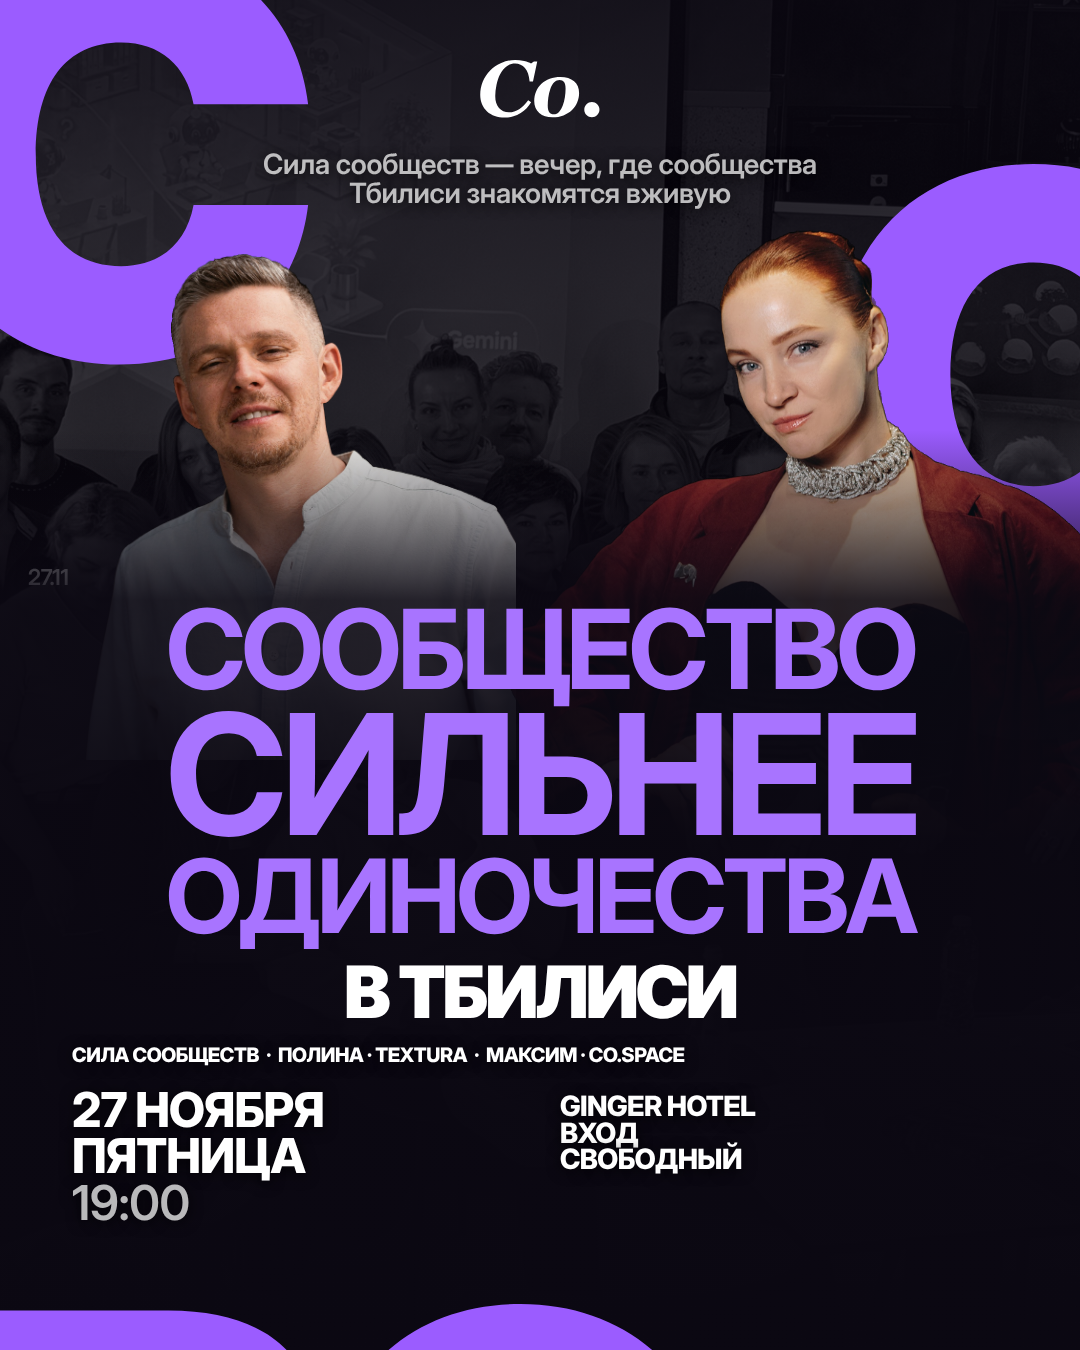
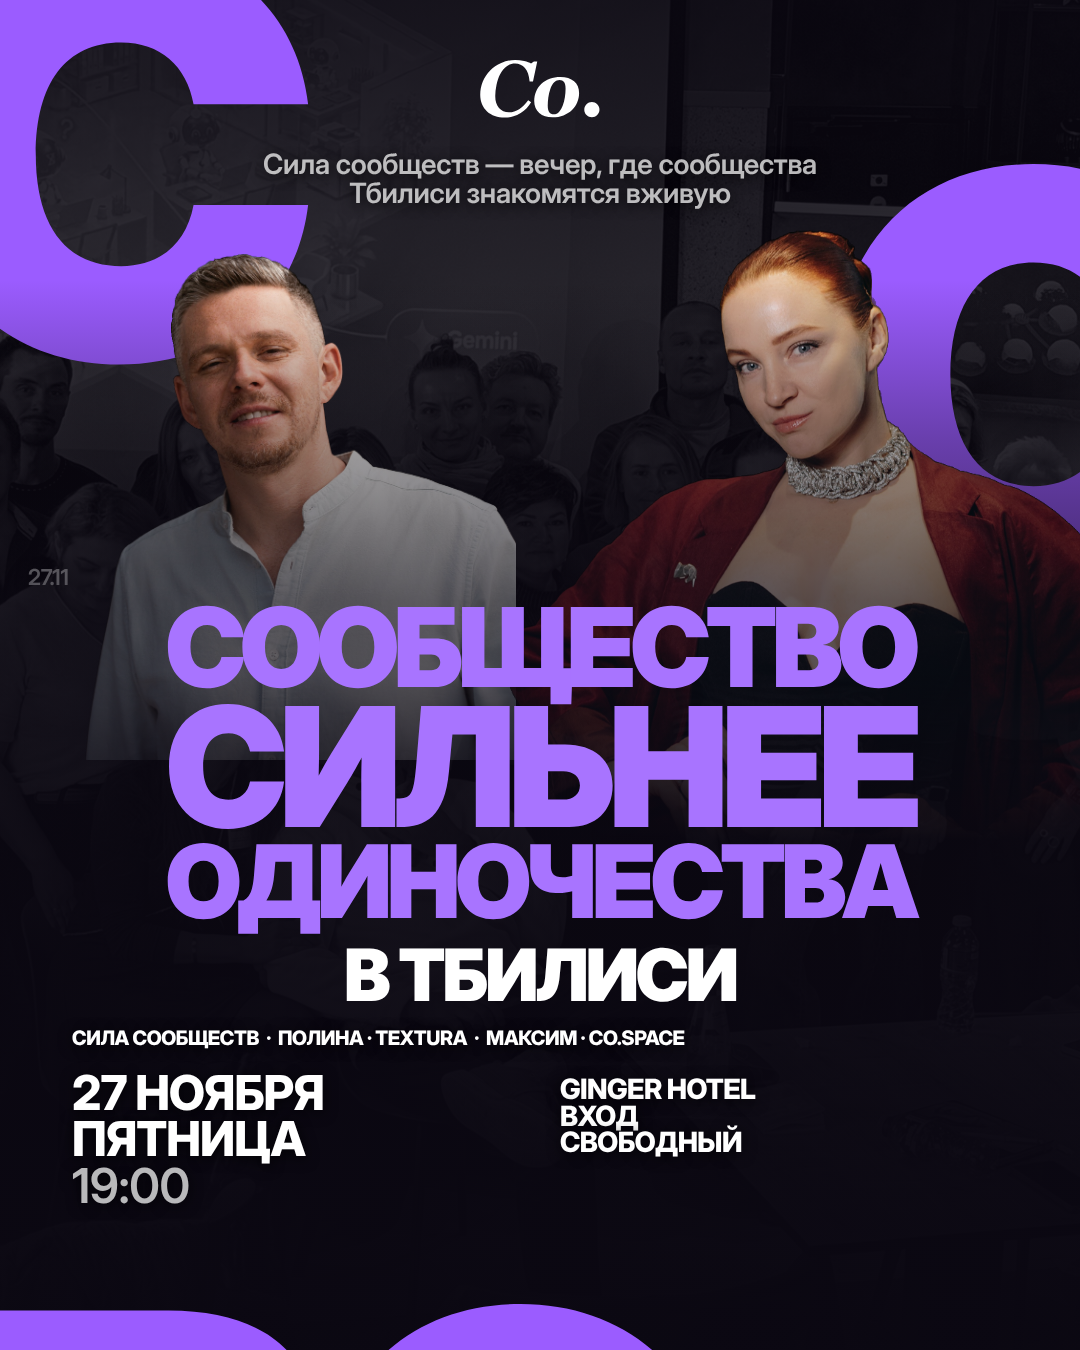
Фиолетовый: жирный заголовок, мягче затемнение

diff --git a/creatives/src/poster/edP-9x16.html b/creatives/src/poster/edP-9x16.html
@@ -14,11 +14,11 @@ body{background:#0B0812}
 .title{position:absolute;left:0;right:0;text-align:center;font-weight:900;color:#9B5CFF;letter-spacing:-.05em;line-height:.8}
 .logo svg{display:block}
 .flow{position:absolute;left:72px;right:72px}
-.fit{display:block;white-space:nowrap;font-weight:700;color:#A874FF;letter-spacing:-.04em;line-height:.9;text-align:center}
+.fit{display:block;white-space:nowrap;font-weight:900;color:#A874FF;letter-spacing:-.05em;line-height:.86;text-align:center}
 .dark{position:absolute;left:0;right:0;bottom:0;z-index:1}
 .flow{z-index:3}
 .logo svg path{fill:#fff}
-</style></head><body><div class="bg"></div><div class="sh"></div><div class="L" style="left:-110px;top:-60px;font-size:760px">С</div><div class="L" style="right:-170px;top:330px;font-size:760px">О</div><div class="person" style="left:71px;top:475px;height:546px;-webkit-mask-image:linear-gradient(180deg,#000 83.3%,transparent 118.1%);"><img src="max_cut.png"></div><div class="person" style="left:486px;top:445px;height:910px;-webkit-mask-image:linear-gradient(180deg,#000 53.2%,transparent 74.1%);"><img src="polina_cut.png"></div><div class="L" style="z-index:2;left:-40px;top:1760px;font-size:760px">ВО</div><div class="abs t" style="left:0;right:0;top:365px;text-align:center;font-size:32px">Сила сообществ — вечер, где сообщества<br>Тбилиси знакомятся вживую</div><div class="abs t" style="left:28px;top:866px;font-size:22px">27.11</div><div class="dark" style="top:730px;background:linear-gradient(180deg,rgba(11,8,18,0),rgba(11,8,18,.88) 170px,rgba(11,8,18,.96))"></div><div class="flow" style="top:900px">
+</style></head><body><div class="bg"></div><div class="sh"></div><div class="L" style="left:-110px;top:-60px;font-size:760px">С</div><div class="L" style="right:-170px;top:330px;font-size:760px">О</div><div class="person" style="left:71px;top:475px;height:546px;-webkit-mask-image:linear-gradient(180deg,#000 83.3%,transparent 118.1%);"><img src="max_cut.png"></div><div class="person" style="left:486px;top:445px;height:910px;-webkit-mask-image:linear-gradient(180deg,#000 53.2%,transparent 74.1%);"><img src="polina_cut.png"></div><div class="L" style="z-index:2;left:-40px;top:1760px;font-size:760px">ВО</div><div class="abs t" style="left:0;right:0;top:365px;text-align:center;font-size:32px">Сила сообществ — вечер, где сообщества<br>Тбилиси знакомятся вживую</div><div class="abs t" style="left:28px;top:866px;font-size:22px">27.11</div><div class="dark" style="top:580px;background:linear-gradient(180deg,rgba(11,8,18,0),rgba(11,8,18,.35) 160px,rgba(11,8,18,.62) 320px,rgba(11,8,18,.72) 70%,rgba(11,8,18,.85))"></div><div class="flow" style="top:900px">
 <span class="fit">СООБЩЕСТВО</span><span class="fit">СИЛЬНЕЕ</span><span class="fit">ОДИНОЧЕСТВА</span>
 <div style="text-align:center;font-weight:900;font-size:88px;letter-spacing:-.04em;line-height:1;color:#fff;margin-top:14px">В ТБИЛИСИ</div>
 <div class="tb" style="font-size:22px;margin-top:18px">СИЛА СООБЩЕСТВ &nbsp;·&nbsp; ПОЛИНА · TEXTURA &nbsp;·&nbsp; МАКСИМ · CO.SPACE</div>

diff --git a/creatives/src/poster/edP-4x5.html b/creatives/src/poster/edP-4x5.html
@@ -14,11 +14,11 @@ body{background:#0B0812}
 .title{position:absolute;left:0;right:0;text-align:center;font-weight:900;color:#9B5CFF;letter-spacing:-.05em;line-height:.8}
 .logo svg{display:block}
 .flow{position:absolute;left:72px;right:72px}
-.fit{display:block;white-space:nowrap;font-weight:700;color:#A874FF;letter-spacing:-.04em;line-height:.9;text-align:center}
+.fit{display:block;white-space:nowrap;font-weight:900;color:#A874FF;letter-spacing:-.05em;line-height:.86;text-align:center}
 .dark{position:absolute;left:0;right:0;bottom:0;z-index:1}
 .flow{z-index:3}
 .logo svg path{fill:#fff}
-</style></head><body><div class="bg"></div><div class="sh"></div><div class="L" style="left:-90px;top:-70px;font-size:560px">С</div><div class="L" style="right:-140px;top:150px;font-size:560px">О</div><div class="person" style="left:85px;top:254px;height:506px;-webkit-mask-image:linear-gradient(180deg,#000 82.2%,transparent 115.8%);"><img src="max_cut.png"></div><div class="person" style="left:508px;top:227px;height:844px;-webkit-mask-image:linear-gradient(180deg,#000 52.5%,transparent 72.7%);"><img src="polina_cut.png"></div><div class="L" style="z-index:2;left:-30px;top:1290px;font-size:560px">ВО</div><div class="abs t" style="left:0;right:0;top:150px;text-align:center;font-size:28px">Сила сообществ — вечер, где сообщества<br>Тбилиси знакомятся вживую</div><div class="abs t" style="left:28px;top:566px;font-size:22px">27.11</div><div class="dark" style="top:430px;background:linear-gradient(180deg,rgba(11,8,18,0),rgba(11,8,18,.88) 170px,rgba(11,8,18,.96))"></div><div class="flow" style="top:600px">
+</style></head><body><div class="bg"></div><div class="sh"></div><div class="L" style="left:-90px;top:-70px;font-size:560px">С</div><div class="L" style="right:-140px;top:150px;font-size:560px">О</div><div class="person" style="left:85px;top:254px;height:506px;-webkit-mask-image:linear-gradient(180deg,#000 82.2%,transparent 115.8%);"><img src="max_cut.png"></div><div class="person" style="left:508px;top:227px;height:844px;-webkit-mask-image:linear-gradient(180deg,#000 52.5%,transparent 72.7%);"><img src="polina_cut.png"></div><div class="L" style="z-index:2;left:-30px;top:1290px;font-size:560px">ВО</div><div class="abs t" style="left:0;right:0;top:150px;text-align:center;font-size:28px">Сила сообществ — вечер, где сообщества<br>Тбилиси знакомятся вживую</div><div class="abs t" style="left:28px;top:566px;font-size:22px">27.11</div><div class="dark" style="top:280px;background:linear-gradient(180deg,rgba(11,8,18,0),rgba(11,8,18,.35) 160px,rgba(11,8,18,.62) 320px,rgba(11,8,18,.72) 70%,rgba(11,8,18,.85))"></div><div class="flow" style="top:600px">
 <span class="fit">СООБЩЕСТВО</span><span class="fit">СИЛЬНЕЕ</span><span class="fit">ОДИНОЧЕСТВА</span>
 <div style="text-align:center;font-weight:900;font-size:72px;letter-spacing:-.04em;line-height:1;color:#fff;margin-top:14px">В ТБИЛИСИ</div>
 <div class="tb" style="font-size:20px;margin-top:18px">СИЛА СООБЩЕСТВ &nbsp;·&nbsp; ПОЛИНА · TEXTURA &nbsp;·&nbsp; МАКСИМ · CO.SPACE</div>

diff --git a/creatives/src/poster/build_editorial_purple.py b/creatives/src/poster/build_editorial_purple.py
@@ -37,7 +37,7 @@ body{background:#0B0812}
 .title{position:absolute;left:0;right:0;text-align:center;font-weight:900;color:#9B5CFF;letter-spacing:-.05em;line-height:.8}
 .logo svg{display:block}
 .flow{position:absolute;left:72px;right:72px}
-.fit{display:block;white-space:nowrap;font-weight:700;color:#A874FF;letter-spacing:-.04em;line-height:.9;text-align:center}
+.fit{display:block;white-space:nowrap;font-weight:900;color:#A874FF;letter-spacing:-.05em;line-height:.86;text-align:center}
 .dark{position:absolute;left:0;right:0;bottom:0;z-index:1}
 .flow{z-index:3}
 .logo svg path{fill:#fff}
@@ -74,7 +74,7 @@ def poster_purple(fmt):
     s.append(f'<div class="abs t" style="left:28px;top:{ty - 34}px;font-size:22px">27.11</div>')
     cs = 88 if story else 72
     ds = 60 if story else 48
-    s.append(f'<div class="dark" style="top:{ty - 170}px;background:linear-gradient(180deg,rgba(11,8,18,0),rgba(11,8,18,.88) 170px,rgba(11,8,18,.96))"></div>')
+    s.append(f'<div class="dark" style="top:{ty - 320}px;background:linear-gradient(180deg,rgba(11,8,18,0),rgba(11,8,18,.35) 160px,rgba(11,8,18,.62) 320px,rgba(11,8,18,.72) 70%,rgba(11,8,18,.85))"></div>')
     s.append(f'''<div class="flow" style="top:{ty}px">
 <span class="fit">СООБЩЕСТВО</span><span class="fit">СИЛЬНЕЕ</span><span class="fit">ОДИНОЧЕСТВА</span>
 <div style="text-align:center;font-weight:900;font-size:{cs}px;letter-spacing:-.04em;line-height:1;color:#fff;margin-top:14px">В ТБИЛИСИ</div>
